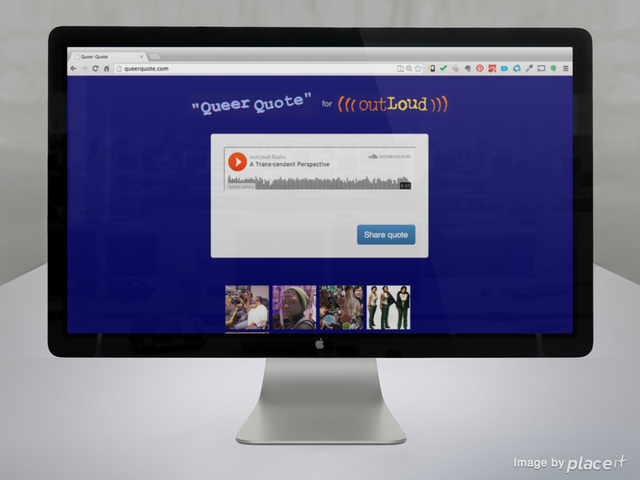
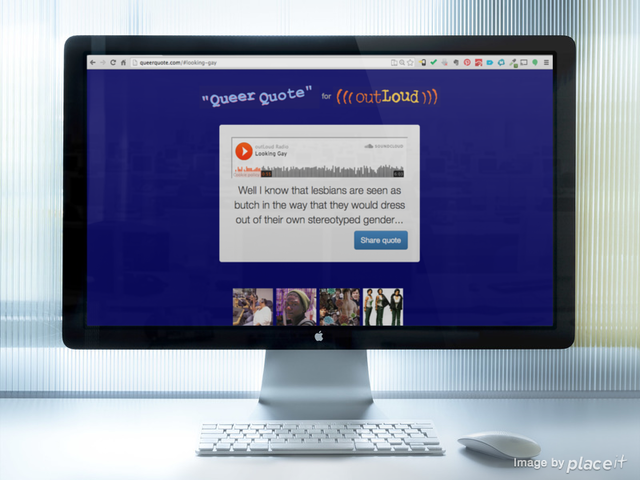
Replaced Queer Quote image and changed project screenshots to Placeit images

diff --git a/index.html b/index.html
@@ -40,24 +40,24 @@
     <div class="two-column-container">
       <div class="left-column">
         <div>
-          <a href="http://cultr.herokuapp.com"><img src="img/cultr-screenshot.png">
+          <a href="http://cultr.herokuapp.com"><img src="img/placeit-cultr.png">
           <h3>cultr<h3></a>
           <p>A location-based app which connects people interested in having in-person conversations about cultural topics such as literature, philosophy, and art.</p>
         </div>
         <div>
-          <a href="http://psychoviz.herokuapp.com"><img src="img/psychoviz-screenshot.png">
+          <a href="http://psychoviz.herokuapp.com"><img src="img/placeit-psychoviz.png">
           <h3>Psychoviz<h3></a>
           <p>A sleek, user-friendly way to evaluate your Meyers-Briggs personality type.</p>
         </div>
       </div>
       <div class="right-column">
         <div>
-          <a href="http://www.queerquote.com"><img src="img/queerquote-screenshot.png">
+          <a href="http://www.queerquote.com"><img src="img/placeit-queerquote.png">
           <h3>Queer Quote</h3></a>
           <p>Built for outLoud Radio at the Hack 4 Queer Youth hackathon (2nd place), it is an media player widget which syncs transcripts with Soundcloud audio, then lets users capture quotes as stylized images and share them to social media.</p>
         </div>
         <div>
-          <a href="http://bikeway.herokuapp.com"><img src="img/bikeway-screenshot.png">
+          <a href="http://bikeway.herokuapp.com"><img src="img/placeit-bikeway.png">
           <h3>Bikeway</h3></a>
           <p>A map-based app which helps bicycle riders and commuters to warn each other about hazards and integrated bike accident data.</p>
         </div>
